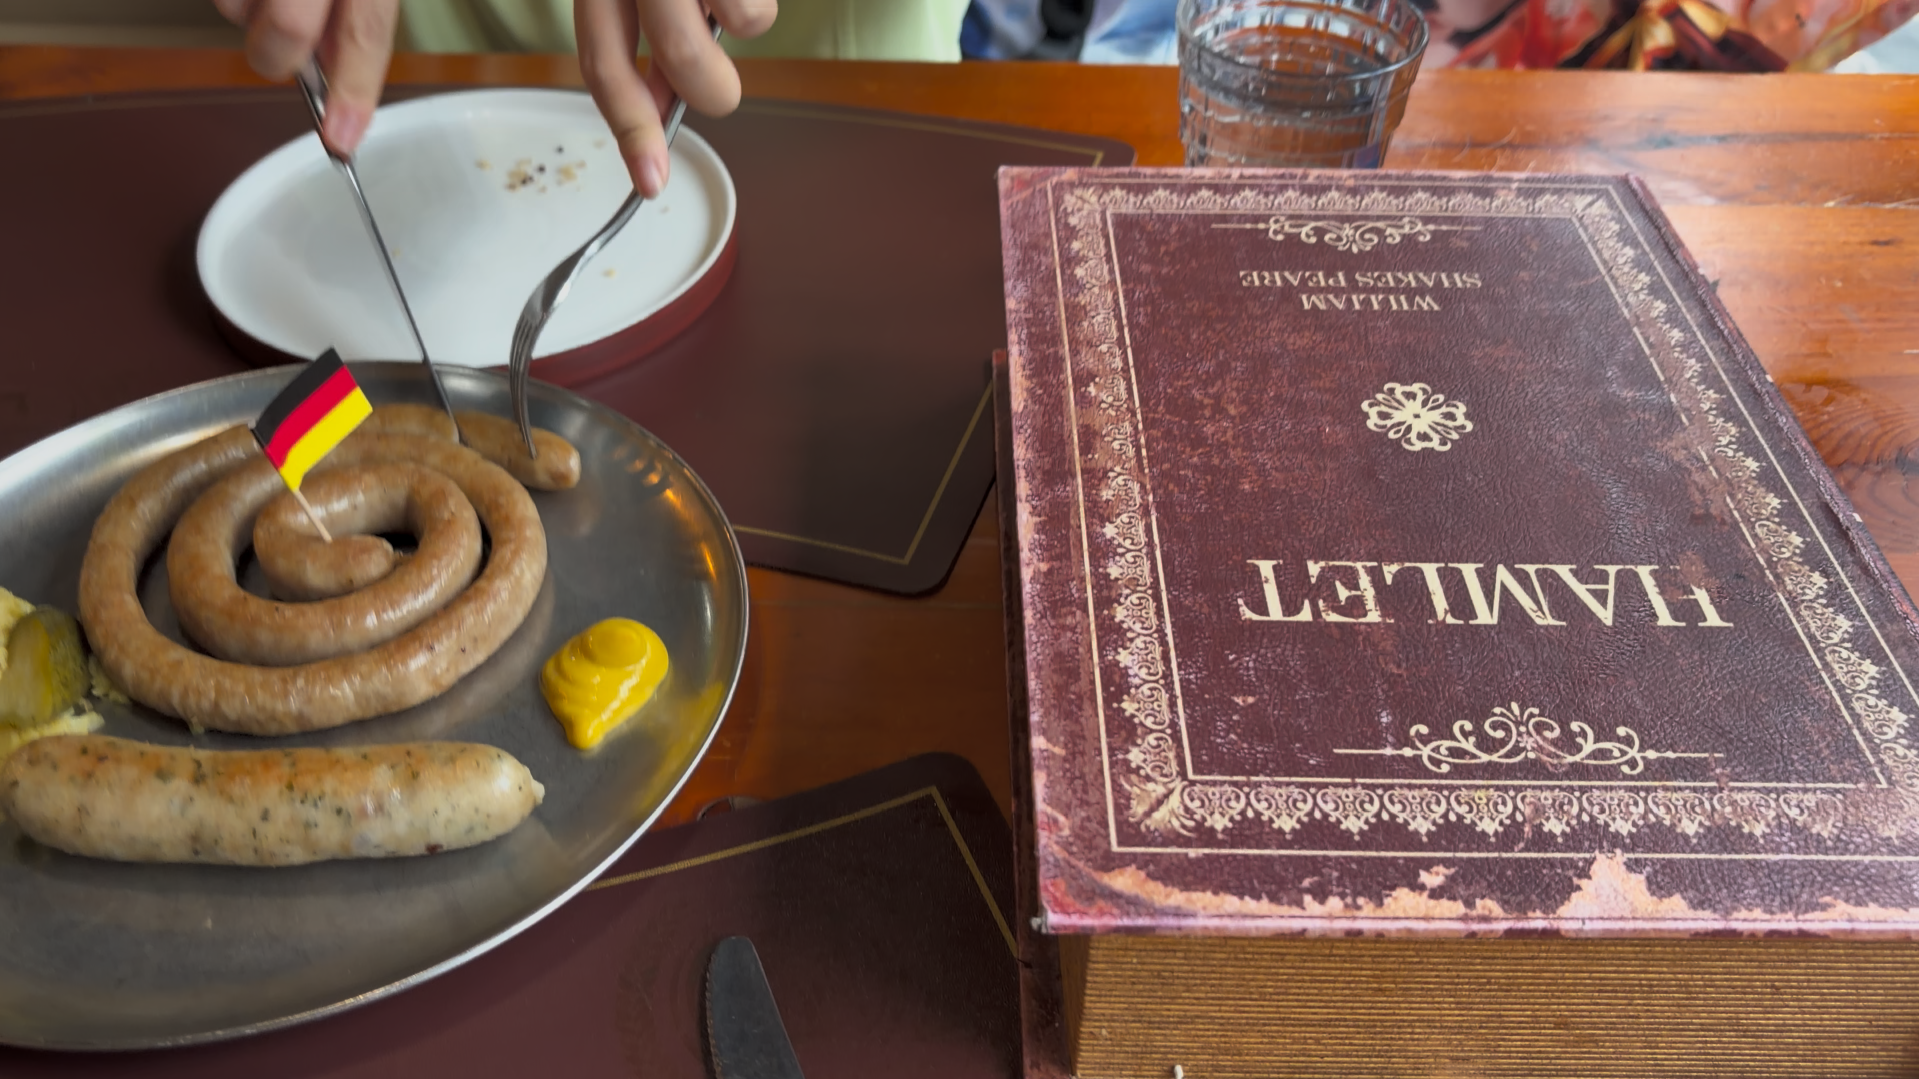
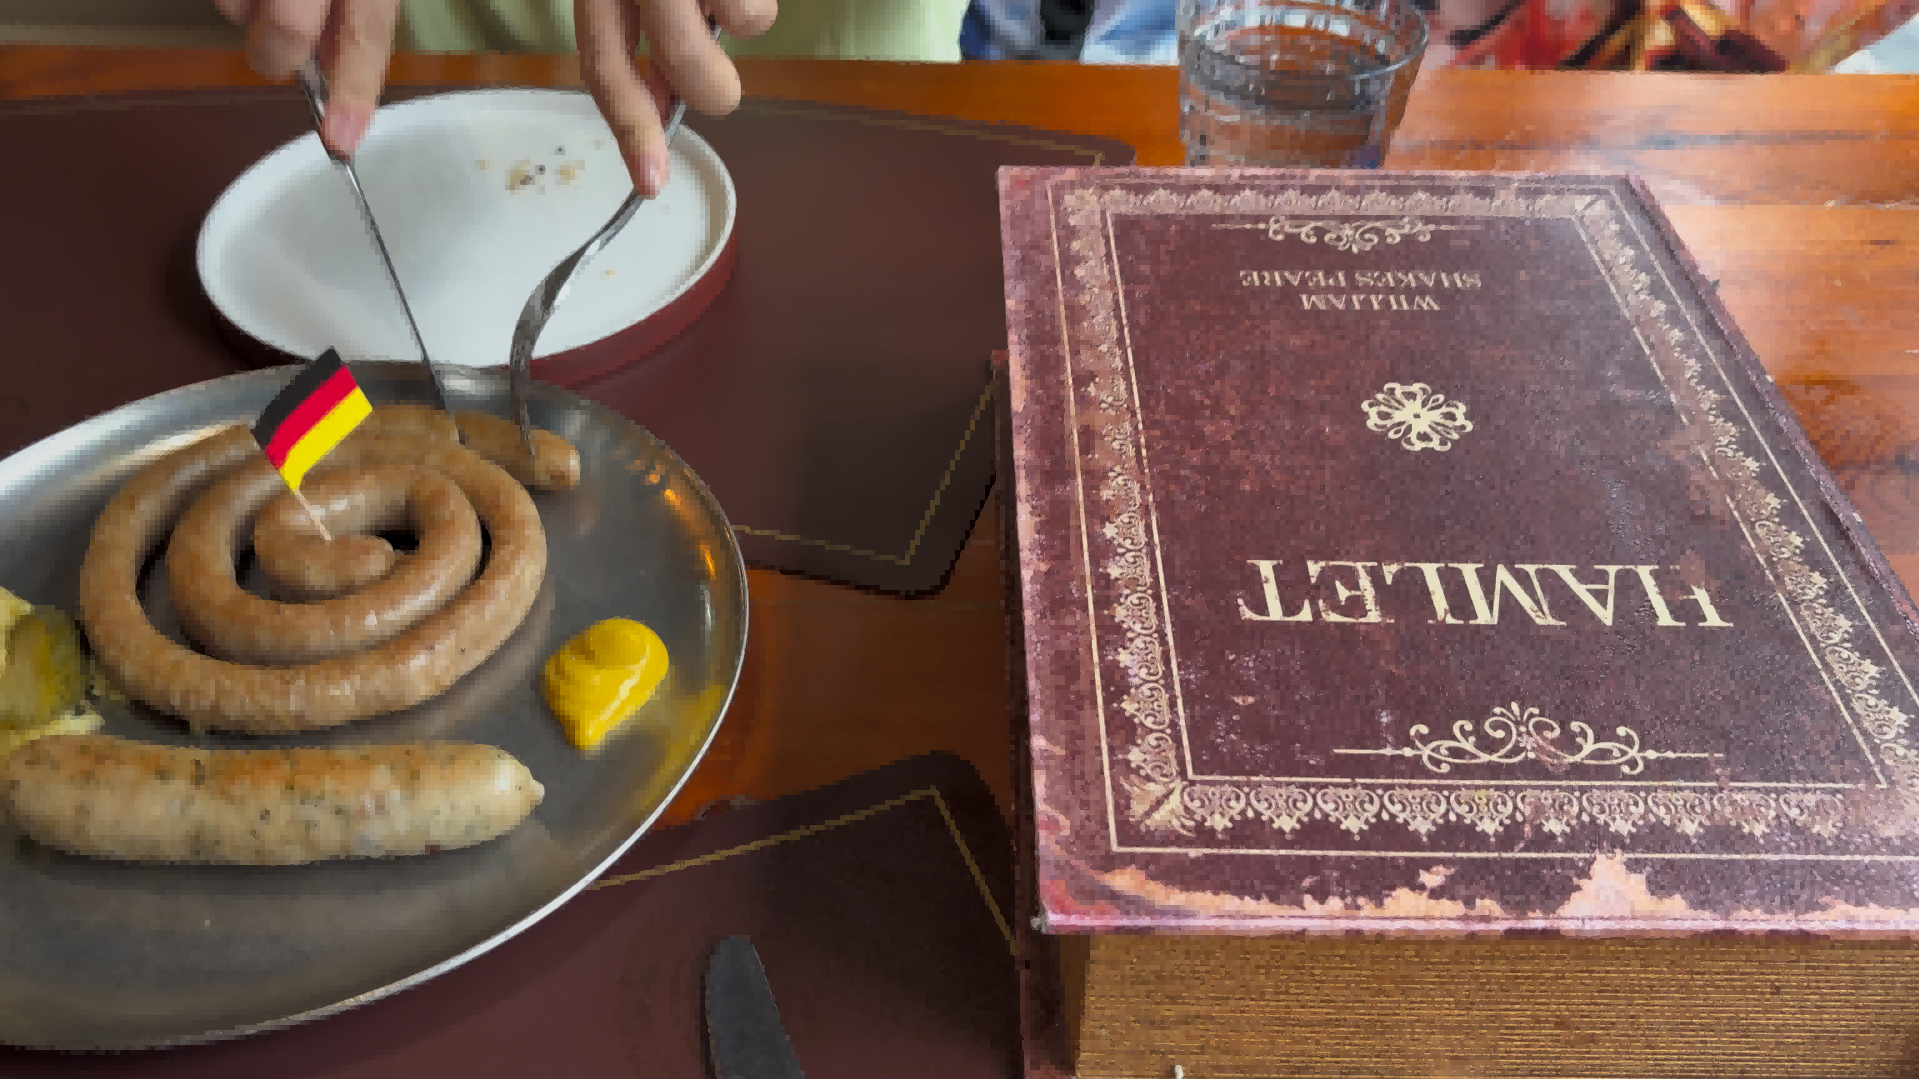
图片资源优化，更换图片格式，提速加载

diff --git a/src/pages/Home.jsx b/src/pages/Home.jsx
@@ -1,7 +1,7 @@
 import { useEffect, useState } from "react";
 import { useNavigate } from "react-router-dom";
 import styled from "styled-components";
-import { motion, useAnimation } from "framer-motion";
+import { motion } from "framer-motion";
 
 const Wrapper = styled.div`
   width: 100vw;
@@ -207,12 +207,21 @@ const cardVariants = {
 
 export default function Home() {
   const navigate = useNavigate();
-  const controls = useAnimation();
-  // 【内嵌滚动高亮逻辑，不再依赖外部hooks文件】
+  // 视频延迟播放：首页先展示封面，3秒后启动视频，减少初始带宽抢占
+  const [videoPlayEnabled, setVideoPlayEnabled] = useState(false);
   const [activeSection, setActiveSection] = useState("");
   const sectionIds = ["hero", "works"];
   const offset = 150;
 
+  // 视频延迟计时器
+  useEffect(()=>{
+    const videoTimer = setTimeout(()=>{
+      setVideoPlayEnabled(true);
+    }, 3000);
+    return ()=>clearTimeout(videoTimer);
+  },[])
+
+  // 滚动导航高亮
   useEffect(()=>{
     const handleScroll = () => {
       const scrollY = window.scrollY;
@@ -268,10 +277,6 @@ export default function Home() {
     }
   ]
 
-  useEffect(()=>{
-    controls.start("enter");
-  },[controls])
-
   return (
     <Wrapper>
       <Header as={motion.header} variants={headerVariants} initial="hidden" animate="enter">
@@ -290,7 +295,14 @@ export default function Home() {
 
       <HeroSection id="hero">
         <VideoCover>
-          <video muted loop playsInline poster="/assets/video-cover.jpg">
+          <video 
+            muted 
+            loop 
+            playsInline 
+            preload="metadata"
+            poster="/assets/video-cover.jpg"
+            autoPlay={videoPlayEnabled}
+          >
             <source src="/assets/bg-video.mp4" type="video/mp4"/>
           </video>
         </VideoCover>

diff --git a/src/components/LoadingScreen.jsx b/src/components/LoadingScreen.jsx
@@ -99,6 +99,8 @@ const ProgressText = styled.span`
 
 export default function LoadingScreen({ progress, loaded, onComplete }) {
   const [canClose, setCanClose] = useState(false);
+  // 最大加载超时：8秒，防止资源卡死永久停留加载页
+  const MAX_LOAD_TIMEOUT = 8000;
 
   useEffect(() => {
     // 最低停留2200ms
@@ -106,12 +108,20 @@ export default function LoadingScreen({ progress, loaded, onComplete }) {
       setCanClose(true);
     }, 2200);
 
-    return () => clearTimeout(minDisplayTime);
+    // 兜底超时：8秒强制允许关闭加载界面
+    const forceTimeout = setTimeout(() => {
+      setCanClose(true);
+    }, MAX_LOAD_TIMEOUT);
+
+    return () => {
+      clearTimeout(minDisplayTime);
+      clearTimeout(forceTimeout);
+    };
   }, []);
 
   useEffect(() => {
-    // 资源加载完成 + 最低等待时间结束，才允许退场
-    if (loaded && canClose) {
+    // 资源加载完成 OR 超时到达 + 最低等待时间结束，才允许退场
+    if ((loaded || canClose) && canClose) {
       setTimeout(() => {
         onComplete();
       }, 1100);
@@ -121,7 +131,7 @@ export default function LoadingScreen({ progress, loaded, onComplete }) {
   return (
     <LoaderWrap
       initial={{ y: 0 }}
-      animate={loaded && canClose ? { y: "-100%" } : { y: 0 }}
+      animate={(loaded || canClose) && canClose ? { y: "-100%" } : { y: 0 }}
       transition={{ duration: 1.2, ease: [0.76, 0, 0.24, 1] }}
     >
       <FontInject />

diff --git a/src/App.jsx b/src/App.jsx
@@ -15,7 +15,7 @@ import MbtiPage from './pages/MbtiPage'
 
 // 需要预加载的全部静态资源清单
 const assetList = [
-  "/assets/bg-video.mp4",
+  //"/assets/bg-video.mp4", //视频永久移出预加载，首页延迟加载
   "/assets/video-cover.jpg",
   "/assets/loading-game-art.jpg",
   "/assets/work-01.jpg",
@@ -44,16 +44,31 @@ function App() {
 
     const loadAsset = (src) => {
       return new Promise((resolve) => {
+        // 单资源1.5秒超时兜底，防止单张图片卡死全部进度
+        const timeout = setTimeout(() => resolve(), 1500);
+
         if(src.endsWith(".mp4")){
           const video = document.createElement("video");
           video.src = src;
-          video.onloadeddata = resolve;
-          video.onerror = resolve;
+          video.onloadeddata = ()=>{
+            clearTimeout(timeout);
+            resolve();
+          };
+          video.onerror = ()=>{
+            clearTimeout(timeout);
+            resolve();
+          };
         }else{
           const img = new Image();
           img.src = src;
-          img.onload = resolve;
-          img.onerror = resolve;
+          img.onload = ()=>{
+            clearTimeout(timeout);
+            resolve();
+          };
+          img.onerror = ()=>{
+            clearTimeout(timeout);
+            resolve();
+          };
         }
       }).then(()=>{
         loadedCount++;

diff --git a/src/pages/MbtiPage.jsx b/src/pages/MbtiPage.jsx
@@ -746,7 +746,7 @@ export default function MbtiPage () {
             <ResultCard initial={{opacity:0,y:30}} animate={{opacity:1,y:0}}>
               <AvatarWrap>
                 <img
-                  src={`/assets/MbtiPage/${typeCode}.png`}
+                  src={`/assets/MbtiPage/${typeCode}.jpg`}
                   alt={typeCode}
                   onError={(e)=>{
                     e.target.style.display="none";
